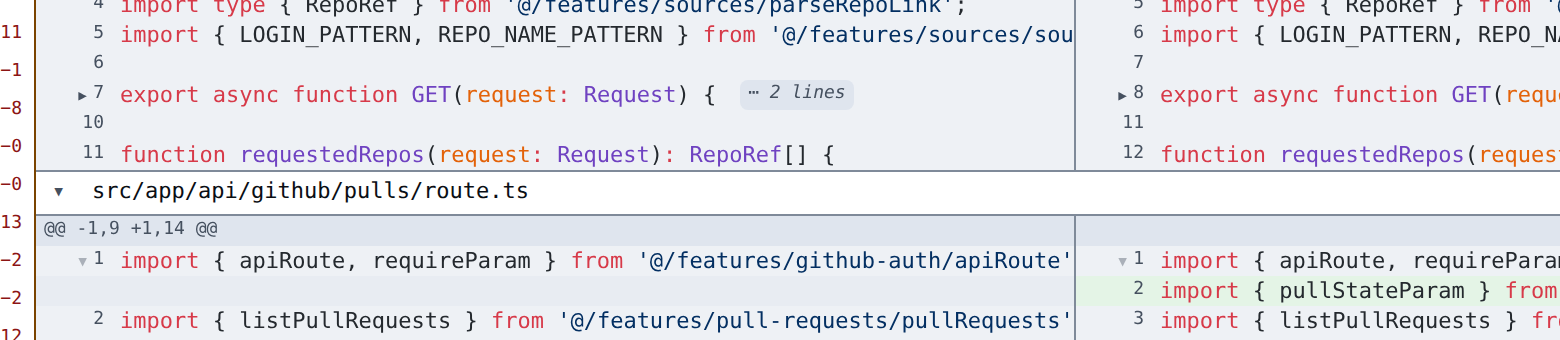
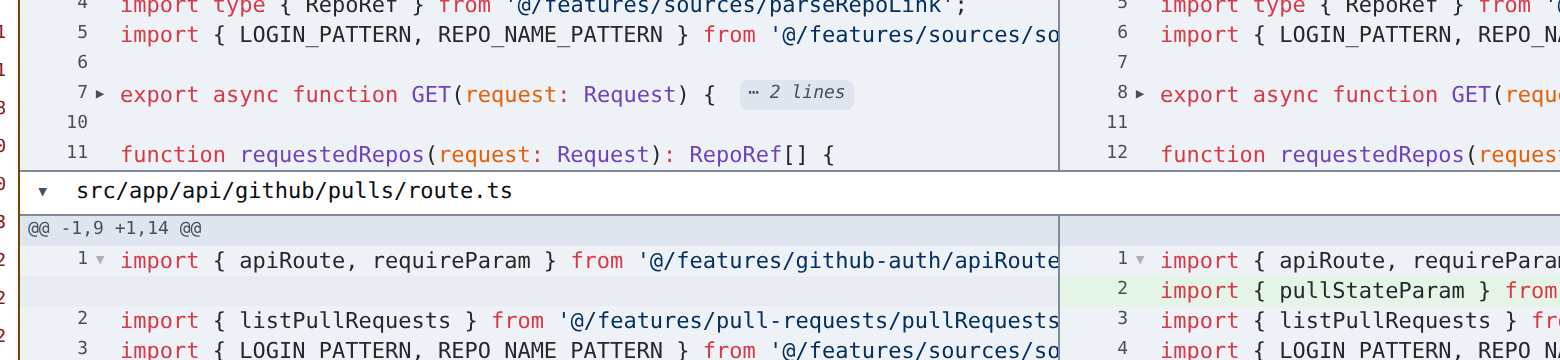
Fold JSX/HTML tag blocks and anchor chevrons in a fixed gutter slot
Markup files get a tag matcher on its own stack: <Tag>...</Tag> pairs,
fragments, and multi-line open or self-closing tags all fold, while
generics and comparisons can't corrupt bracket matching. The gutter now
reserves a fold slot between the line number and the code so chevrons
align vertically inside the number column.

Claude-Session: https://claude.ai/code/session_01UaAHp6b3d4E1H2og6R57ue

diff --git a/src/features/pull-requests/collapseRegions.ts b/src/features/pull-requests/collapseRegions.ts
@@ -51,10 +51,13 @@ const IMPORT_BY_EXTENSION: Record<string, RegExp> = {
   rb: /^\s*require/,
 };
 
+const MARKUP_EXTENSIONS = new Set(['tsx', 'jsx', 'js', 'mjs', 'cjs', 'html', 'htm', 'xml', 'svg', 'vue', 'svelte', 'mdx', 'astro']);
+
 export function collapseRegions(rows: DiffRow[], contiguous: boolean, filename: string): CollapseRegion[] {
   const side: Side = rows.some((row) => row.right) ? 'right' : 'left';
-  const brackets = bracketSpans(rows, side, contiguous);
-  const importLine = IMPORT_BY_EXTENSION[extensionOf(filename)];
+  const extension = extensionOf(filename);
+  const brackets = bracketSpans(rows, side, contiguous, MARKUP_EXTENSIONS.has(extension));
+  const importLine = IMPORT_BY_EXTENSION[extension];
   const imports = importLine ? importRuns(rows, side, importCoveredRows(rows, side, brackets, importLine), importLine, contiguous) : [];
   const wideEnough = brackets.filter((span) => span.end - span.start >= 2);
   return finalize(rows, [...imports, ...wideEnough]);
@@ -71,6 +74,7 @@ function textOf(row: DiffRow | undefined, side: Side): string | null {
 interface ScanState {
   inBlockComment: boolean;
   inTemplate: boolean;
+  markup: boolean;
 }
 
 interface OpenBracket {
@@ -78,28 +82,87 @@ interface OpenBracket {
   row: number;
 }
 
+interface OpenTag {
+  name: string;
+  row: number;
+}
+
+interface Scan {
+  state: ScanState;
+  brackets: OpenBracket[];
+  tags: OpenTag[];
+  pending: { name: string; row: number; depth: number } | null;
+}
+
+type Token =
+  | { t: 'bracket'; char: string }
+  | { t: 'tagStart'; name: string }
+  | { t: 'tagClose'; name: string }
+  | { t: 'gt' }
+  | { t: 'selfGt' }
+  | { t: 'tagBreak' };
+
 const CLOSE_TO_OPEN: Record<string, string> = { ')': '(', ']': '[', '}': '{' };
 
-function bracketSpans(rows: DiffRow[], side: Side, contiguous: boolean): Span[] {
+function bracketSpans(rows: DiffRow[], side: Side, contiguous: boolean, markup: boolean): Span[] {
   const spans: Span[] = [];
-  const state: ScanState = { inBlockComment: false, inTemplate: false };
-  const stack: OpenBracket[] = [];
+  const scan: Scan = { state: { inBlockComment: false, inTemplate: false, markup }, brackets: [], tags: [], pending: null };
   rows.forEach((row, index) => {
     if (row.kind === 'hunk') {
-      if (!contiguous) resetScan(state, stack);
+      if (!contiguous) resetScan(scan);
       return;
     }
     const text = textOf(row, side);
     if (text === null) return;
-    for (const bracket of bracketsIn(text, state)) applyBracket(bracket, index, stack, spans);
+    for (const token of tokensIn(text, scan.state)) applyToken(token, index, scan, spans);
   });
   return spans;
 }
 
-function resetScan(state: ScanState, stack: OpenBracket[]) {
-  state.inBlockComment = false;
-  state.inTemplate = false;
-  stack.length = 0;
+function resetScan(scan: Scan) {
+  scan.state.inBlockComment = false;
+  scan.state.inTemplate = false;
+  scan.brackets.length = 0;
+  scan.tags.length = 0;
+  scan.pending = null;
+}
+
+function applyToken(token: Token, row: number, scan: Scan, spans: Span[]) {
+  if (token.t === 'bracket') {
+    trackPendingDepth(scan, token.char);
+    applyBracket(token.char, row, scan.brackets, spans);
+  } else if (token.t === 'tagStart') {
+    scan.pending = { name: token.name, row, depth: 0 };
+  } else if (token.t === 'tagClose') {
+    scan.pending = null;
+    closeTag(token.name, row, scan.tags, spans);
+  } else {
+    resolvePendingTag(token.t, row, scan, spans);
+  }
+}
+
+function trackPendingDepth(scan: Scan, char: string) {
+  if (!scan.pending) return;
+  scan.pending.depth += char in CLOSE_TO_OPEN ? -1 : 1;
+  if (scan.pending.depth < 0) scan.pending = null;
+}
+
+function resolvePendingTag(kind: 'gt' | 'selfGt' | 'tagBreak', row: number, scan: Scan, spans: Span[]) {
+  const pending = scan.pending;
+  if (!pending || pending.depth > 0) return;
+  if (kind === 'gt') scan.tags.push({ name: pending.name, row: pending.row });
+  if (kind === 'selfGt' && row > pending.row) spans.push({ start: pending.row, end: row, imports: false });
+  scan.pending = null;
+}
+
+function closeTag(name: string, row: number, tags: OpenTag[], spans: Span[]) {
+  for (let index = tags.length - 1; index >= 0; index -= 1) {
+    const open = tags[index];
+    if (!open || open.name !== name) continue;
+    if (row > open.row) spans.push({ start: open.row, end: row, imports: false });
+    tags.length = index;
+    return;
+  }
 }
 
 function applyBracket(bracket: string, row: number, stack: OpenBracket[], spans: Span[]) {
@@ -116,8 +179,8 @@ function applyBracket(bracket: string, row: number, stack: OpenBracket[], spans:
   if (row > top.row) spans.push({ start: top.row, end: row, imports: false });
 }
 
-function bracketsIn(text: string, state: ScanState): string[] {
-  const found: string[] = [];
+function tokensIn(text: string, state: ScanState): Token[] {
+  const found: Token[] = [];
   let at = 0;
   while (at < text.length) {
     if (state.inBlockComment) at = pastBlockComment(text, at, state);
@@ -140,7 +203,7 @@ function pastTemplate(text: string, at: number, state: ScanState): number {
   return end ?? text.length;
 }
 
-function plainCode(text: string, at: number, state: ScanState, found: string[]): number {
+function plainCode(text: string, at: number, state: ScanState, found: Token[]): number {
   const char = text[at] ?? '';
   const pair = char + (text[at + 1] ?? '');
   if (pair === '//' || lineCommentHash(text, at)) return text.length;
@@ -153,8 +216,42 @@ function plainCode(text: string, at: number, state: ScanState, found: string[]):
     state.inTemplate = true;
     return at + 1;
   }
-  if ('()[]{}'.includes(char)) found.push(char);
+  if ('()[]{}'.includes(char)) {
+    found.push({ t: 'bracket', char });
+    return at + 1;
+  }
+  if (state.markup) return markupCode(text, at, pair, found);
   return at + 1;
+}
+
+const TAG_CLOSE = /^<\/\s*([A-Za-z][\w.:$-]*)?\s*>/;
+const TAG_START = /^<([A-Za-z][\w.:$-]*)/;
+
+function markupCode(text: string, at: number, pair: string, found: Token[]): number {
+  if (pair === '/>') {
+    found.push({ t: 'selfGt' });
+    return at + 2;
+  }
+  if (text[at] === '<') return tagToken(text, at, found);
+  if (text[at] === '>' && text[at - 1] !== '=') found.push({ t: 'gt' });
+  else if (text[at] === ';' || text[at] === '?') found.push({ t: 'tagBreak' });
+  return at + 1;
+}
+
+function tagToken(text: string, at: number, found: Token[]): number {
+  const rest = text.slice(at);
+  const close = rest.match(TAG_CLOSE);
+  if (close) {
+    found.push({ t: 'tagClose', name: close[1] ?? '' });
+    return at + close[0].length;
+  }
+  if (rest.startsWith('<>')) {
+    found.push({ t: 'tagStart', name: '' }, { t: 'gt' });
+    return at + 2;
+  }
+  const name = rest.match(TAG_START)?.[1];
+  if (name !== undefined) found.push({ t: 'tagStart', name });
+  return at + (name === undefined ? 1 : name.length + 1);
 }
 
 function lineCommentHash(text: string, at: number): boolean {

diff --git a/src/features/pull-requests/DiffSide.tsx b/src/features/pull-requests/DiffSide.tsx
@@ -13,7 +13,7 @@ import { HoverCardTrigger } from '@/features/surface-ui/HoverCard';
 import { SelectableRow } from '@/features/surface-ui/SelectableRow';
 
 const ROW = 'flex h-[15px] items-center gap-1 leading-[15px]';
-const GUTTER = 'w-[38px] shrink-0 select-none pr-1 text-right text-[9px] text-ink-dim';
+const GUTTER = 'flex w-[46px] shrink-0 select-none items-center text-[9px] text-ink-dim';
 const TOUCHED_MARK = 'bg-add-bg/60 shadow-[inset_2px_0_0_var(--add-emph)]';
 const EDIT_BTN =
   'sticky right-0 shrink-0 rounded bg-procgen px-1 uppercase tracking-[0.14em] hover:bg-btn-hover hover:text-ink';
@@ -182,11 +182,10 @@ function foldLabel(anchor: CollapseAnchor): string {
 }
 
 function GutterCell({ line, anchor }: { line: number; anchor: CollapseAnchor | null }) {
-  if (!anchor) return <span className={GUTTER}>{line}</span>;
   return (
-    <span className={`${GUTTER} flex items-center justify-end gap-0.5`}>
-      <CollapseChevron anchor={anchor} />
-      <span>{line}</span>
+    <span className={GUTTER}>
+      <span className="min-w-0 flex-1 text-right">{line}</span>
+      <span className="w-3 shrink-0 text-center">{anchor && <CollapseChevron anchor={anchor} />}</span>
     </span>
   );
 }
